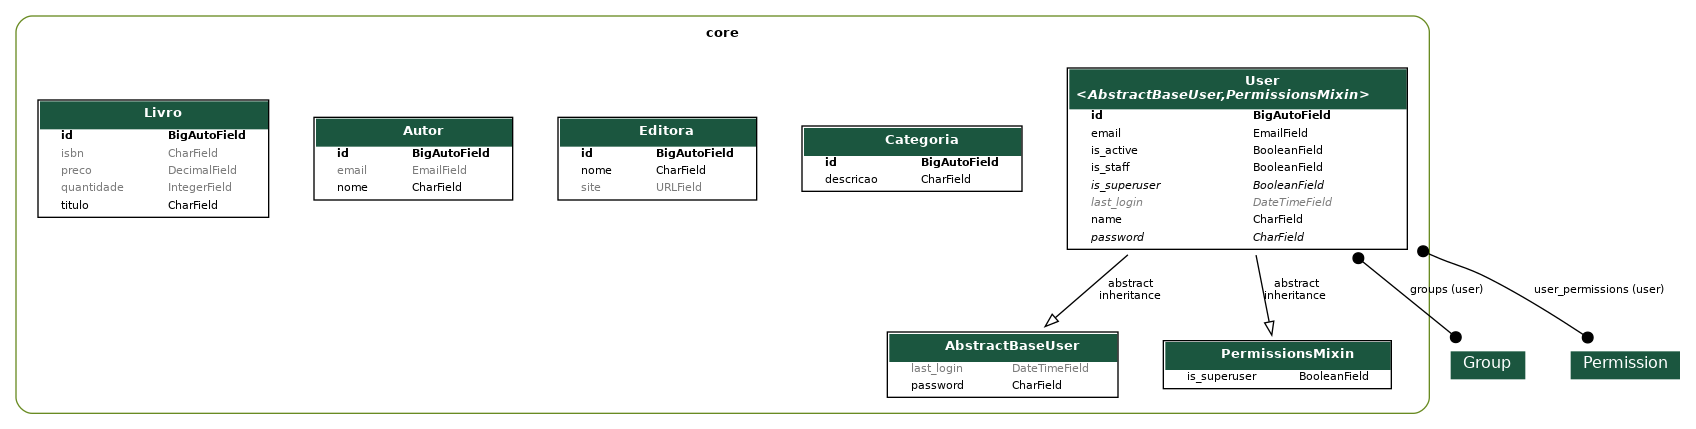
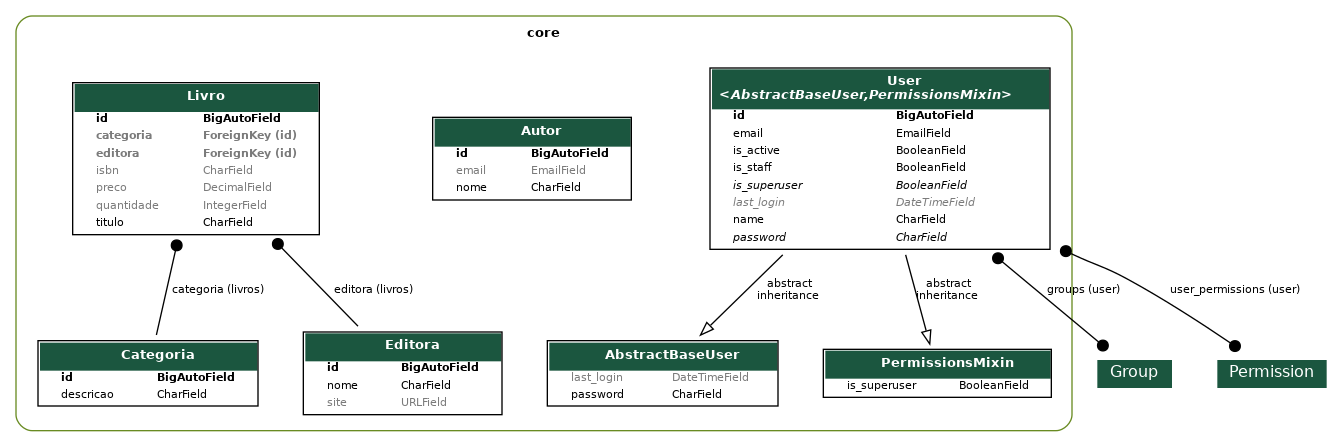
Adicionando relacionamento de Livro com Categoria e Editora

diff --git a/core/migrations/0008_livro_categoria_livro_editora.py b/core/migrations/0008_livro_categoria_livro_editora.py
@@ -1,0 +1,36 @@
+# Generated by Django 5.0.2 on 2024-08-13 11:32
+
+import django.db.models.deletion
+from django.db import migrations, models
+
+
+class Migration(migrations.Migration):
+
+    dependencies = [
+        ("core", "0007_livro"),
+    ]
+
+    operations = [
+        migrations.AddField(
+            model_name="livro",
+            name="categoria",
+            field=models.ForeignKey(
+                blank=True,
+                null=True,
+                on_delete=django.db.models.deletion.PROTECT,
+                related_name="livros",
+                to="core.categoria",
+            ),
+        ),
+        migrations.AddField(
+            model_name="livro",
+            name="editora",
+            field=models.ForeignKey(
+                blank=True,
+                null=True,
+                on_delete=django.db.models.deletion.PROTECT,
+                related_name="livros",
+                to="core.editora",
+            ),
+        ),
+    ]

diff --git a/core/models/livro.py b/core/models/livro.py
@@ -1,5 +1,6 @@
 from django.db import models
-
+from .categoria import Categoria
+from .editora import Editora
 
 
 class Livro(models.Model):
@@ -7,6 +8,9 @@ class Livro(models.Model):
     isbn = models.CharField(max_length=32, null=True, blank=True)
     quantidade = models.IntegerField(default=0,  null=True, blank=True)
     preco = models.DecimalField(max_digits=7, decimal_places=2, default=0, null=True, blank=True)
+    categoria = models.ForeignKey(Categoria, on_delete=models.PROTECT, related_name="livros", null=True, blank=True)
+    editora = models.ForeignKey(Editora, on_delete=models.PROTECT, related_name="livros", null=True, blank=True)
+
 
     def __str__(self):
         return f"({self.id}) {self.titulo} ({self.quantidade})"
